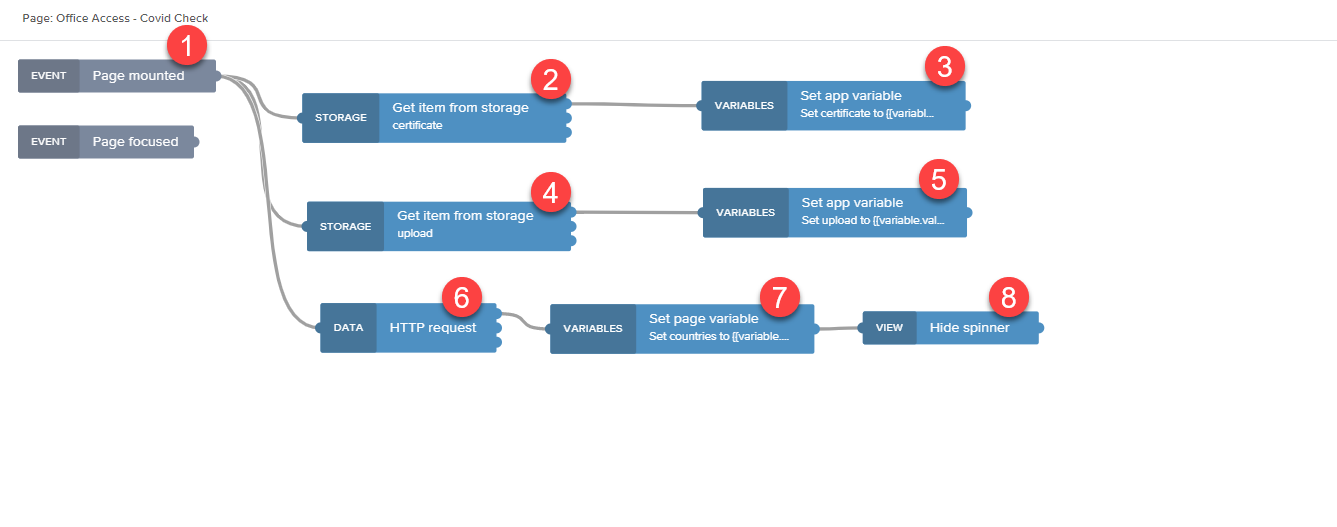
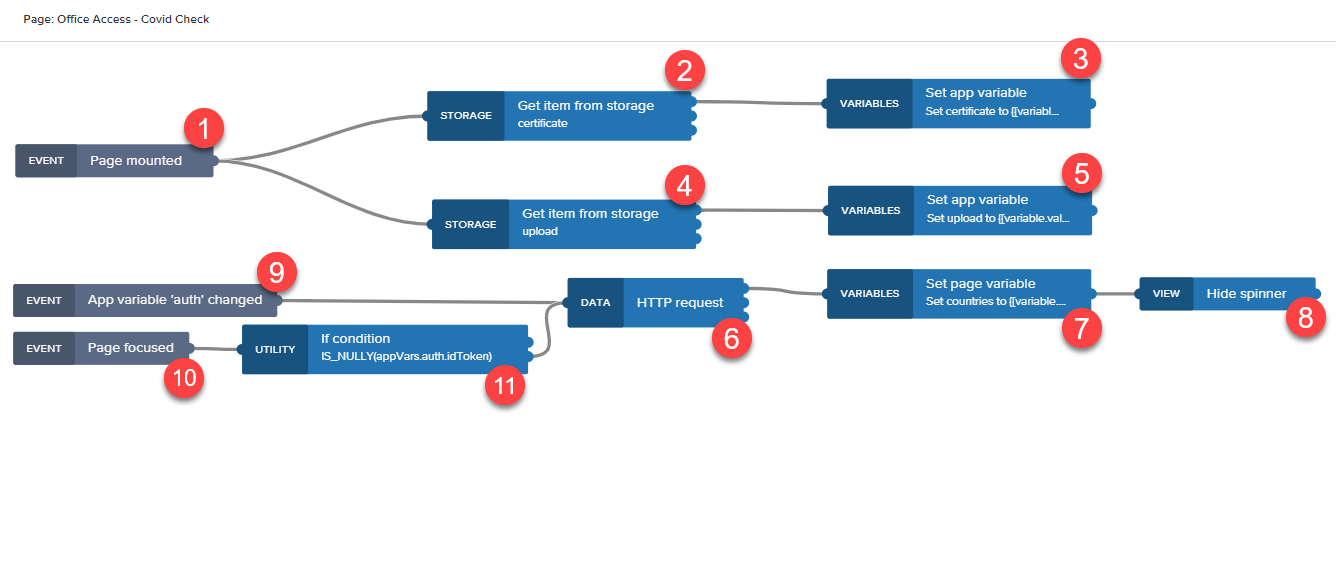
Further documentation

Changed region(s): [[0.0, 0.0304, 1.0, 0.7287]]

diff --git a/tutorials/4_AppGyverApp/README.md b/tutorials/4_AppGyverApp/README.md
@@ -2,7 +2,7 @@
 
 ## Introduction
 
-Learn how to configure a new AppGyver app that allows you to upload screenshots or scans of Covid vacination certificates to your SAP CAP OData service. After successfull validation of the certificate, the app will display the validity date and status retreived by your service. 
+Learn how to configure a new AppGyver app that allows you to upload screenshots or scans of Covid vacination certificates to your CAP OData service. After successfull validation of the certificate, the app will display the validity date and status retreived by your service. 
 
 ---
 
@@ -296,16 +296,19 @@ Your SAP AppGyver app will need a variety of variables to store information like
 2. Please add the following components to your logic flow and connect them as depicted, before you start with the individual component configurations. 
     ![AppGyver](./images/image63.png)
 
-    | #  |     Type     |       Feature         |
-    |----|:------------:|----------------------:|
-    | 1  | Event        | Page mounted          |
-    | 2  | Storage      | Get item from storage |
-    | 3  | Variables    | Set app variable      |
-    | 4  | Storage      | Get item from storage |
-    | 5  | Variables    | Set app variable      |
-    | 6  | Data         | HTTP request          |
-    | 7  | Variables    | Set page variable     |
-    | 8  | View         | Hide spinner          |
+    | #  |     Type     |       Feature                 |
+    |----|:------------:|------------------------------:|
+    | 1  | Event        | Page mounted                  |
+    | 2  | Storage      | Get item from storage         |
+    | 3  | Variables    | Set app variable              |
+    | 4  | Storage      | Get item from storage         |
+    | 5  | Variables    | Set app variable              |
+    | 6  | Data         | HTTP request                  |
+    | 7  | Variables    | Set page variable             |
+    | 8  | View         | Hide spinner                  |
+    | 9  | Event        | App variable 'auth' changed   |
+    | 10 | Event        | Page focused                  |
+    | 11 | Utility      | If condition                  |
 
     >#1 Event - Page mounted <br>
     >[<img src="./images/image64.png" width="100">](./images/image64.png)
@@ -341,7 +344,7 @@ Your SAP AppGyver app will need a variety of variables to store information like
     >[<img src="./images/image79.png" width="100">](./images/image79.png)
 
     >#6 Data - HTTP request <br>
-    >**URL**: https://`<<SAP CAP service endpoint e.g. sap-dev-covidapp-srv.cfapps.eu10.hana.ondemand.com>>`/rest/verification/getAvailableCountries<br>
+    >**URL**: https://`<<CAP service endpoint e.g. sap-dev-covidapp-srv.cfapps.eu10.hana.ondemand.com>>`/rest/verification/getAvailableCountries<br>
     >[<img src="./images/image80.png" width="100">](./images/image80.png)
     >[<img src="./images/image81.png" width="100">](./images/image81.png)
     >[<img src="./images/image82.png" width="100">](./images/image82.png)
@@ -353,8 +356,19 @@ Your SAP AppGyver app will need a variety of variables to store information like
     >[<img src="./images/image85.png" width="100">](./images/image85.png)
     >[<img src="./images/image86.png" width="100">](./images/image86.png)
 
-    >#8 View - hide spinner <br>
+    >#8 View - Hide spinner <br>
     >[<img src="./images/image87.png" width="100">](./images/image87.png)
+
+    >#9 Event - App variable 'auth' changed <br>
+    >[<img src="./images/image87_1.png" width="100">](./images/image87_1.png)
+
+    >#10 Event - Page focused <br>
+    >[<img src="./images/image87_2.png" width="100">](./images/image87_2.png)
+
+    >#11 Utility - If condition <br>
+    >**Condition (Formula)**: IS_NULLY(appVars.auth.idToken)<br>
+    >[<img src="./images/image87_3.png" width="100">](./images/image87_3.png)
+    >[<img src="./images/image87_4.png" width="100">](./images/image87_4.png)
 
 ---
 
@@ -508,7 +522,7 @@ Your SAP AppGyver app will need a variety of variables to store information like
     >[<img src="./images/image151.png" width="100">](./images/image151.png)
 
     >4 Data - HTTP request <br>
-    >**URL**: https://`<<SAP CAP service endpoint e.g. sap-dev-covidapp-srv.cfapps.eu10.hana.ondemand.com>>`/rest/verification/decodeCertificateString<br>
+    >**URL**: https://`<<CAP service endpoint e.g. sap-dev-covidapp-srv.cfapps.eu10.hana.ondemand.com>>`/rest/verification/decodeCertificateString<br>
     >[<img src="./images/image152.png" width="100">](./images/image152.png)
     >[<img src="./images/image153.png" width="100">](./images/image153.png)
     >[<img src="./images/image154.png" width="100">](./images/image154.png)
@@ -598,7 +612,7 @@ Your SAP AppGyver app will need a variety of variables to store information like
     >[<img src="./images/image186.png" width="100">](./images/image186.png)
 
     >5 Data - HTTP request <br>
-    >**URL**: https://`<<SAP CAP service endpoint e.g. sap-dev-covidapp-srv.cfapps.eu10.hana.ondemand.com>>`/rest/verification/decodeQrCode<br>
+    >**URL**: https://`<<CAP service endpoint e.g. sap-dev-covidapp-srv.cfapps.eu10.hana.ondemand.com>>`/rest/verification/decodeQrCode<br>
     >[<img src="./images/image187.png" width="100">](./images/image187.png)
     >[<img src="./images/image188.png" width="100">](./images/image188.png)
     >[<img src="./images/image189.png" width="100">](./images/image189.png)

diff --git a/README.md b/README.md
@@ -24,37 +24,50 @@ Sounds like a promising and compelling use case for testing a Low Code / No Code
 ## Requirements
 The required systems and components are:
 
-- SAP BTP PAYGO (e.g. Free Tier) or CPEA account
+- SAP BTP PAYGO (e.g. Free Tier) or CPEA contract
 - SAP SuccessFactors system
 - Covid vacination certificate
 
 Entitlements/Quota required in your SAP Business Technology Platform Account:
 
-| Service                     | Plan             | Number of instances |
-| --------------------------- | ---------------- | ------------------- |
-| Cloud Foundry Memory        |                  | 1GB                 |
+| Service                                       | Plan              | Number of instances |
+| --------------------------------------------- | ----------------- | ------------------- |
+| Cloud Foundry Memory                          |                   | 1GB                 |
+| SAP Cloud Identity Services                   | application       | 1                   |
+| SAP Graph                                     | standard          | 1                   |
+| HTML5 Application Repository Service          | app-host          | 1                   |
+| Destination Service                           | lite              | 2                   |
+| SAP HANA Schemas & HDI Containers             | hdi-shared        | 1                   |
+| SAP HANA Cloud                                | hana              | 1                   |
+| Authorization and Trust Management Service    | application       | 1                   |
 
 
 Subscriptions required in your SAP Business Technology Platform Account:
 
-| Subscription               | Plan                                                   |
-| -------------------------- | ------------------------------------------------------ |
-| SAP AppGyver               | ...                                                    |
+| Subscription                      | Plan                                                |
+| --------------------------------- | --------------------------------------------------- |
+| SAP AppGyver                      | standard                                            |
+| SAP Business Application Studio   | standard-edition                                    |
+| SAP Cloud Identity Services       | default (only if SAP IAS not available yet)         |
+| Launchpad Service                 | standard                                            |
+
 
 ## Setup and Configuration
 
 ### [Step 1: Security setup](./tutorials/1_SecuritySetup/README.md) 
 
-In this part of the tutorial you will learn how to setup the security related aspects of your scenario. The security setup will allow you secure access to your CAP REST endpoints using the so called PKCE flow. Therefore you will use SAP Identity Authentication service and integrate it with your CAP service secured by SAP XSUAA. 
+In this part of the tutorial you will learn how to setup the security related aspects of your scenario. The security setup will allow you secure access to your CAP REST endpoints using the so called PKCE flow. Therefore you will use SAP Identity Authentication Service and integrate it with your CAP service secured by SAP XSUAA. 
 
 (Martin & Jim - Uwe the "Validation Monkey")
 ### [Step 2: Backend application](./tutorials/2_BackendApplication/README.md)
 (Max)
+
 ### [Step 3: Graph application](./tutorials/3_GraphApplication/README.md)
 (Praveen)
+
 ### [Step 4: AppGyver app](./tutorials/4_AppGyverApp/README.md)
 
-In this part of the tutorial you will learn how to setup and configure your SAP AppGyver app including a secure access to your CAP REST endpoints. The SAP AppGyver app will allow you to upload or scan Covid vacination or test certificates. The certificate will be checked in the CAP service and the validation result will be displayed and stored in the app. 
+In this part of the tutorial you will learn how to setup and configure your SAP AppGyver app including a secure access to your CAP REST endpoints. The SAP AppGyver app will allow you to upload or scan Covid vacination or test certificates. The certificate will be checked in the CAP service and the validation result will be displayed and stored in the SAP AppGyver app. 
 
 (Martin & Jim - Uwe the "Validation Monkey")
 ### [Step 5: Test cases](./tutorials/5_TestCases/README.md)

diff --git a/tutorials/1_SecuritySetup/README.md b/tutorials/1_SecuritySetup/README.md
@@ -10,11 +10,18 @@ https://blogs.sap.com/2022/03/22/sap-appgyver-and-proof-key-for-code-exchange-pk
 
 The blog post covers the topic of **Proof Key for Code Exchange (PKCE)** which is an OAuth authorization grant type relevant for mobile clients not being capable of storing a client secret for authentication purposes. 
 
+Instead of using SAP XSUAA for user authentication, in this scenario the SAP Identity Authentication Service (SAP IAS)  will be used. Based on the convenient XSUAA cross-consumption feature, the respective OAuth token can be be used to seamlessly access your SAP XSUAA based application like CAP apps. 
+
+Therefore, in the following you will first create a new SAP Identity Authentication service instance (if not available yet). Then you will need to setup the trust between your SAP BTP XSUAA subaccount instance and your SAP Identity Authentication instance. 
+
+In the next step you can create a new application registration in SAP IAS and a corresponding SAP XSUAA service instance providing the required roles on the SAP BTP side. Finally you will map the SAP IAS group assignments to SAP BTP XSUAA role collections before testing the actual token exchange feature between the two authentication tools. 
+
+
 ---
 
-## Setup a SAP Identity Authentication instance
+## Setup an SAP Identity Authentication Service tenant
 
->If you don't have an existing SAP Identity Authentication instance in your landscape, please follow the steps in the official [SAP Help](https://help.sap.com/docs/IDENTITY_AUTHENTICATION/6d6d63354d1242d185ab4830fc04feb1/93160ebd2dcb40e98aadcbb9a970f2b9.html?locale=en-US#getting-a-tenant) guide to enable it for this scenario. You can check in the **Trust Configuration** of your SAP BTP subaccount if there is a SAP Identity Authentication tenant available for your customer ID and establish the required trust (if not yet done already).
+>If you don't have an existing SAP Identity Authentication Service tenant in your landscape, please follow the steps in the official [SAP Help](https://help.sap.com/docs/IDENTITY_AUTHENTICATION/6d6d63354d1242d185ab4830fc04feb1/93160ebd2dcb40e98aadcbb9a970f2b9.html?locale=en-US#getting-a-tenant) guide to enable it for this scenario. You can check in the **Trust Configuration** of your SAP BTP subaccount if there is an SAP Identity Authentication tenant available for your customer ID and establish the required trust (if not yet done already).
 >![Trust setup](./images/image04.png)
 
 A default instance of **SAP Identity Services** (Identity Authentication/Identity Provisioning) can be used for free by every **SAP BTP PAYGO** or **CPEA** customer given a few conditions. This includes developers signing up for **SAP BTP Free Tier** PAYGO scenarios. The free usage covers all setups in which access to or between official SAP solutions (on-premise and cloud) and applications provisioned on SAP BTP is authenticated. In case of authentication requirements to **3rd party applications** (not deployed on SAP BTP), an **additional license** is required, where a payment is based on number of logins. Please familiarize yourself with the official and latest "SAP Business Technology Platform service description guide" to find more details on free usage allowance. The service description guide is the **legal and binding document** when it comes to licensing questions. 
